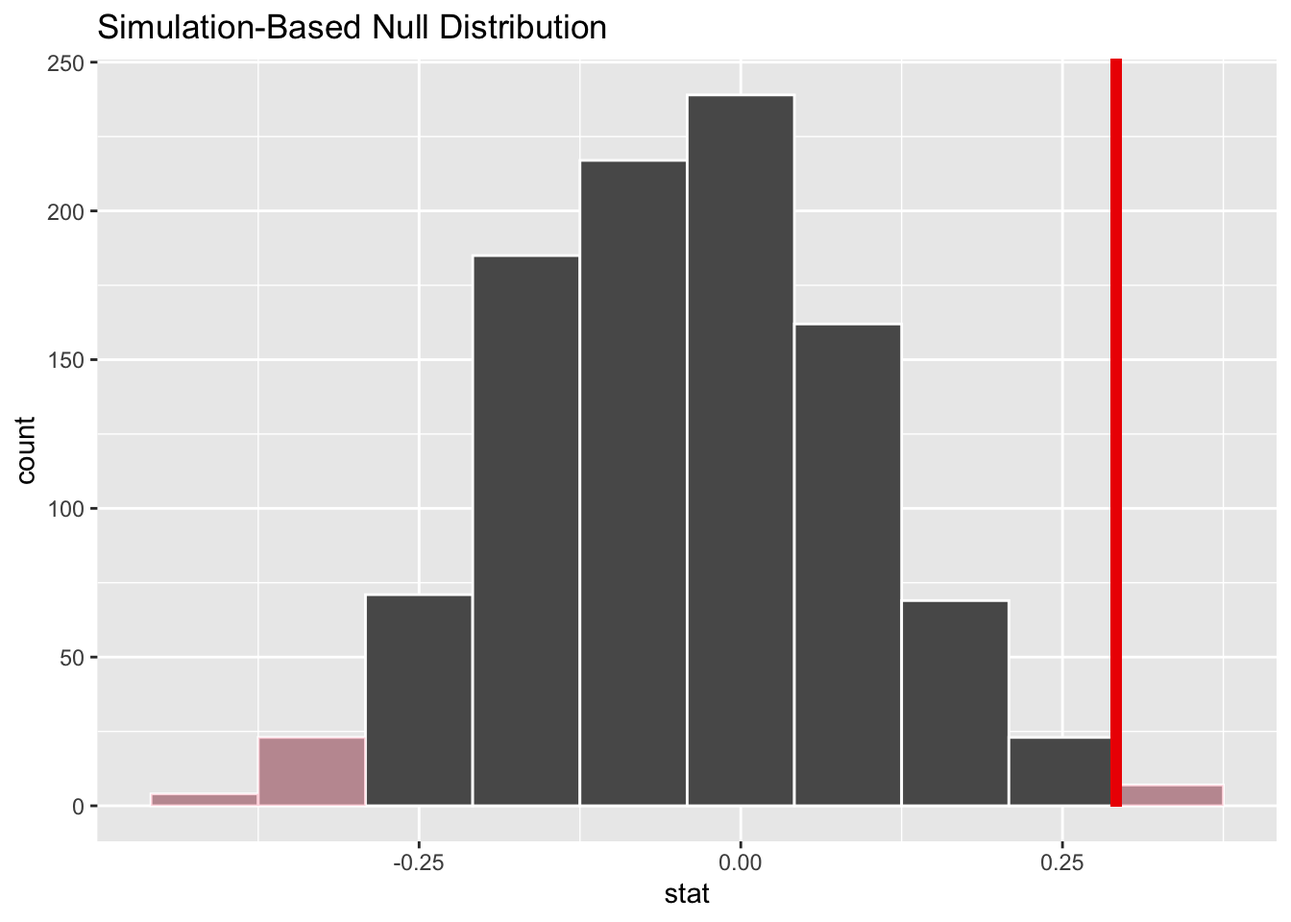
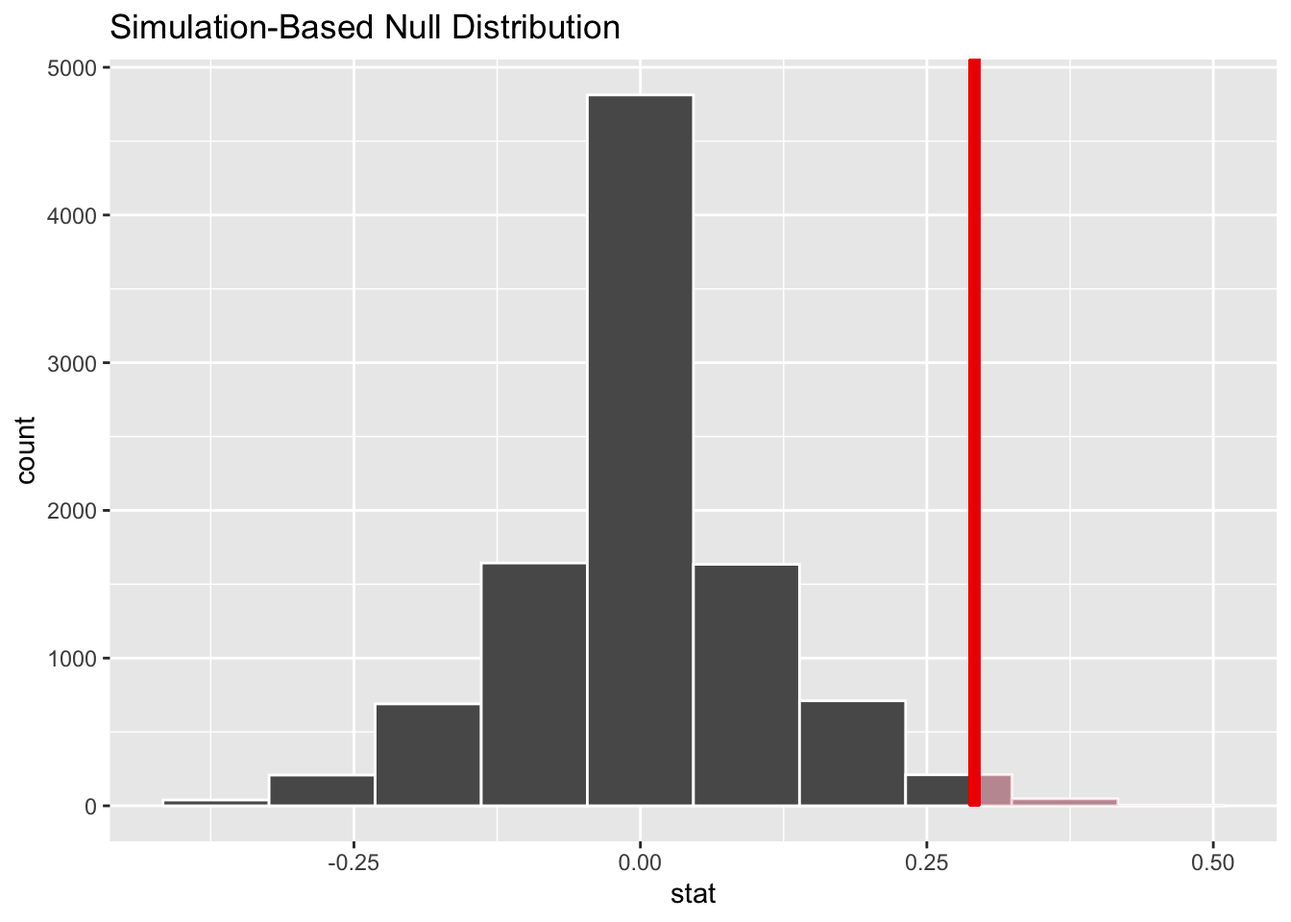
examp to found

diff --git a/Math58/Notes/foundations-for-inference.html b/Math58/Notes/foundations-for-inference.html
@@ -137,14 +137,11 @@ code span.wa { color: #60a0b0; font-weight: bold; font-style: italic; } /* Warni
 <li class="chapter" data-level="1.3" data-path="intro.html"><a href="intro.html#example-friend-or-foe"><i class="fa fa-check"></i><b>1.3</b> Example: Friend or Foe</a></li>
 </ul></li>
 <li class="chapter" data-level="2" data-path="foundations-for-inference.html"><a href="foundations-for-inference.html"><i class="fa fa-check"></i><b>2</b> Foundations for Inference</a><ul>
-<li class="chapter" data-level="2.1" data-path="foundations-for-inference.html"><a href="foundations-for-inference.html#Jan23"><i class="fa fa-check"></i><b>2.1</b> 1/23/20 Agenda</a><ul>
-<li class="chapter" data-level="" data-path="foundations-for-inference.html"><a href="foundations-for-inference.html#vocabulary-1"><i class="fa fa-check"></i>Vocabulary</a></li>
-</ul></li>
-<li class="chapter" data-level="2.2" data-path="foundations-for-inference.html"><a href="foundations-for-inference.html#examples"><i class="fa fa-check"></i><b>2.2</b> Examples</a><ul>
-<li class="chapter" data-level="2.2.1" data-path="foundations-for-inference.html"><a href="foundations-for-inference.html#ex:gend"><i class="fa fa-check"></i><b>2.2.1</b> Examp: Gender Discrimination (<span class="citation">Diez, Barr, and Çetinkaya-Rundel (<span>2014</span>)</span>, pg 61)</a></li>
-</ul></li>
+<li class="chapter" data-level="2.1" data-path="foundations-for-inference.html"><a href="foundations-for-inference.html#Jan23"><i class="fa fa-check"></i><b>2.1</b> 1/23/20 Agenda</a></li>
+<li class="chapter" data-level="2.2" data-path="foundations-for-inference.html"><a href="foundations-for-inference.html#ex:gend"><i class="fa fa-check"></i><b>2.2</b> Example: Gender Discrimination</a></li>
 <li class="chapter" data-level="2.3" data-path="foundations-for-inference.html"><a href="foundations-for-inference.html#structure-of-hypothesis-testing"><i class="fa fa-check"></i><b>2.3</b> Structure of Hypothesis testing</a><ul>
 <li class="chapter" data-level="2.3.1" data-path="foundations-for-inference.html"><a href="foundations-for-inference.html#hypotheses-1"><i class="fa fa-check"></i><b>2.3.1</b> Hypotheses</a></li>
+<li class="chapter" data-level="2.3.2" data-path="foundations-for-inference.html"><a href="foundations-for-inference.html#other-pieces-of-the-process"><i class="fa fa-check"></i><b>2.3.2</b> Other pieces of the process</a></li>
 </ul></li>
 <li class="chapter" data-level="2.4" data-path="foundations-for-inference.html"><a href="foundations-for-inference.html#normality"><i class="fa fa-check"></i><b>2.4</b> Normality</a></li>
 <li class="chapter" data-level="2.5" data-path="foundations-for-inference.html"><a href="foundations-for-inference.html#Jan28"><i class="fa fa-check"></i><b>2.5</b> 1/28/20 Agenda</a><ul>
@@ -185,18 +182,9 @@ code span.wa { color: #60a0b0; font-weight: bold; font-style: italic; } /* Warni
 <li><code>infer</code> again</li>
 <li>Hypothesis testing structure</li>
 </ol>
-<div id="vocabulary-1" class="section level3 unnumbered">
-<h3>Vocabulary</h3>
-<ul>
-<li>A <strong>statistic</strong> is a numerical measurement we get from the sample, a function of the data. [Also sometimes called an <strong>estimate</strong>.]</li>
-<li>A <strong>parameter</strong> is a numerical measurement of the population. We never know the true value of the parameter.</li>
-</ul>
 </div>
-</div>
-<div id="examples" class="section level2">
-<h2><span class="header-section-number">2.2</span> Examples</h2>
-<div id="ex:gend" class="section level3">
-<h3><span class="header-section-number">2.2.1</span> Examp: Gender Discrimination (<span class="citation">Diez, Barr, and Çetinkaya-Rundel (<a href="#ref-isrs">2014</a>)</span>, pg 61)</h3>
+<div id="ex:gend" class="section level2">
+<h2><span class="header-section-number">2.2</span> Example: Gender Discrimination</h2>
 <blockquote>
 <p>We consider a study investigating gender discrimination in the 1970s, which is set in the context of personnel decisions within a bank.<a href="#fn1" class="footnote-ref" id="fnref1"><sup>1</sup></a> The research question we hope to answer is, “Are females discriminated against in promotion decisions made by male managers?”</p>
 </blockquote>
@@ -204,7 +192,7 @@ code span.wa { color: #60a0b0; font-weight: bold; font-style: italic; } /* Warni
 <p>The participants in this study were 48 male bank supervisors attending a management institute at the University of North Carolina in 1972. They were asked to assume the role of the personnel director of a bank and were given a personnel file to judge whether the person should be promoted to a branch manager position. The files given to the participants were identical, except that half of them indicated the candidate was male and the other half indicated the candidate was female. These files were randomly assigned to the subjects.</p>
 </blockquote>
 <blockquote>
-<p>For each supervisor we recorded the gender associated with the assigned file and the promotion decision. Using the results of the study summarized in Table 2.1, we would like to evaluate if females are unfairly discriminated against in promotion decisions. In this study, a smaller proportion of females are promoted than males (0.583 versus 0.875), but it is unclear whether the difference provides convincing evidence that females are unfairly discriminated against.</p>
+<p>For each supervisor we recorded the gender associated with the assigned file and the promotion decision. Using the results of the study summarized in Table 2.1, we would like to evaluate if females are unfairly discriminated against in promotion decisions. In this study, a smaller proportion of females are promoted than males (0.583 versus 0.875), but it is unclear whether the difference provides convincing evidence that females are unfairly discriminated against. (<span class="citation">Diez, Barr, and Çetinkaya-Rundel (<a href="#ref-isrs">2014</a>)</span>, pg 61)</p>
 </blockquote>
 <table>
 <thead>
@@ -257,7 +245,10 @@ code span.wa { color: #60a0b0; font-weight: bold; font-style: italic; } /* Warni
 <li>What are the variables? What type of variables?
 <ul>
 <li><ol style="list-style-type: decimal">
-<li>whether the resume was male or female, (2) decision to promote or not promote</li>
+<li>whether the resume was male or female (categorical)</li>
+</ol></li>
+<li><ol start="2" style="list-style-type: decimal">
+<li>decision to promote or not promote (categorical)</li>
 </ol></li>
 </ul></li>
 <li>What is the statistic?
@@ -307,29 +298,28 @@ code span.wa { color: #60a0b0; font-weight: bold; font-style: italic; } /* Warni
 <a class="sourceLine" id="cb12-2" data-line-number="2">null_discrim &lt;-<span class="st"> </span>discrim <span class="op">%&gt;%</span></a>
 <a class="sourceLine" id="cb12-3" data-line-number="3"><span class="st">  </span><span class="kw">specify</span>(decision <span class="op">~</span><span class="st"> </span>gender, <span class="dt">success =</span> <span class="st">&quot;promote&quot;</span>) <span class="op">%&gt;%</span></a>
 <a class="sourceLine" id="cb12-4" data-line-number="4"><span class="st">  </span><span class="kw">hypothesize</span>(<span class="dt">null =</span> <span class="st">&quot;independence&quot;</span>) <span class="op">%&gt;%</span></a>
-<a class="sourceLine" id="cb12-5" data-line-number="5"><span class="st">  </span><span class="kw">generate</span>(<span class="dt">reps =</span> <span class="dv">1000</span>, <span class="dt">type =</span> <span class="st">&quot;permute&quot;</span>) <span class="op">%&gt;%</span></a>
+<a class="sourceLine" id="cb12-5" data-line-number="5"><span class="st">  </span><span class="kw">generate</span>(<span class="dt">reps =</span> <span class="dv">10000</span>, <span class="dt">type =</span> <span class="st">&quot;permute&quot;</span>) <span class="op">%&gt;%</span></a>
 <a class="sourceLine" id="cb12-6" data-line-number="6"><span class="st">  </span><span class="kw">calculate</span>(<span class="dt">stat =</span> <span class="st">&quot;diff in props&quot;</span>, <span class="dt">order =</span> <span class="kw">c</span>(<span class="st">&quot;male&quot;</span>, <span class="st">&quot;female&quot;</span>))</a>
 <a class="sourceLine" id="cb12-7" data-line-number="7"></a>
 <a class="sourceLine" id="cb12-8" data-line-number="8"><span class="co"># then visualize the null sampling distribution &amp; p-value</span></a>
 <a class="sourceLine" id="cb12-9" data-line-number="9"><span class="kw">visualize</span>(null_discrim, <span class="dt">bins =</span> <span class="dv">10</span>) <span class="op">+</span></a>
-<a class="sourceLine" id="cb12-10" data-line-number="10"><span class="st">  </span><span class="kw">shade_p_value</span>(<span class="dt">obs_stat =</span> diff_obs, <span class="dt">direction =</span> <span class="st">&quot;two_sided&quot;</span>)</a></code></pre></div>
+<a class="sourceLine" id="cb12-10" data-line-number="10"><span class="st">  </span><span class="kw">shade_p_value</span>(<span class="dt">obs_stat =</span> diff_obs, <span class="dt">direction =</span> <span class="st">&quot;right&quot;</span>)</a></code></pre></div>
 <p><img src="02-FoundInf_files/figure-html/unnamed-chunk-1-1.png" width="672" /></p>
 <div class="sourceCode" id="cb13"><pre class="sourceCode r"><code class="sourceCode r"><a class="sourceLine" id="cb13-1" data-line-number="1"><span class="co"># calculate the actual p-value</span></a>
 <a class="sourceLine" id="cb13-2" data-line-number="2">null_discrim <span class="op">%&gt;%</span></a>
-<a class="sourceLine" id="cb13-3" data-line-number="3"><span class="st">  </span><span class="kw">get_p_value</span>(<span class="dt">obs_stat =</span> diff_obs, <span class="dt">direction =</span> <span class="st">&quot;two_sided&quot;</span>)</a></code></pre></div>
+<a class="sourceLine" id="cb13-3" data-line-number="3"><span class="st">  </span><span class="kw">get_p_value</span>(<span class="dt">obs_stat =</span> diff_obs, <span class="dt">direction =</span> <span class="st">&quot;right&quot;</span>)</a></code></pre></div>
 <pre><code>## # A tibble: 1 x 1
 ##   p_value
 ##     &lt;dbl&gt;
-## 1    0.06</code></pre>
+## 1   0.026</code></pre>
 </div>
 <div id="logic-for-what-we-believe-1" class="section level4 unnumbered">
 <h4>Logic for what we believe</h4>
 <ol style="list-style-type: decimal">
 <li><p>We know that the study was an experiment, so there should be no <strong>systematic</strong> differences between the group who received “male” applications and “female” applications.</p></li>
-<li><p>We’ve ruled out random chance as the reason for the huge difference in proportions. (We reject the null hypothesis.)</p></li>
+<li><p>We’ve ruled out random chance as the reason for the huge difference in proportions. (We reject the null hypothesis.) if we lived in the null reality, we’d only see data like these about 2.5% of the time.</p></li>
 <li><p>We conclude that gender and decision are not independent. That is, knowing the gender changes the probability of promotion.</p></li>
 </ol>
-</div>
 </div>
 </div>
 <div id="structure-of-hypothesis-testing" class="section level2">
@@ -342,6 +332,11 @@ code span.wa { color: #60a0b0; font-weight: bold; font-style: italic; } /* Warni
 <li><p>The <strong>Alternative Hypothesis</strong>, <span class="math inline">\(H_A\)</span>, is a specific statement about a population that is in the researcher’s interest to demonstrate. Typically, the alternative hypothesis contains all the values of the population that are not included in the null hypothesis.</p></li>
 <li><p>In a <strong>two-sided</strong> (or two-tailed) test, the alternative hypothesis includes values on both sides of the value specified by the null hypothesis.</p></li>
 <li><p>In a <strong>one-sided</strong> (or one-tailed) test, the alternative hypothesis includes parameter values on only one side of the value specified by the null hypothesis. <span class="math inline">\(H_0\)</span> is rejected only if the data depart from it in the direction stated by <span class="math inline">\(H_A\)</span>.</p></li>
+</ul>
+</div>
+<div id="other-pieces-of-the-process" class="section level3">
+<h3><span class="header-section-number">2.3.2</span> Other pieces of the process</h3>
+<ul>
 <li><p>The <strong>test statistic</strong> is a quantity calculated from the data that is used to evaluate how compatible the data are with the result expected under the null hypothesis.</p></li>
 <li><p>The <strong>null distribution</strong> is the sampling distribution of outcomes for a test statistic under the assumption that the null hypothesis is true.</p></li>
 <li><p>The <strong>p-value</strong> is the probability of obtaining the data (or data showing as great or greater difference from the null hypothesis) if the null hypothesis is true. <em>The p-value is a number calculated from the dataset.</em></p></li>

diff --git a/Math58/Notes/index.html b/Math58/Notes/index.html
@@ -137,14 +137,11 @@ code span.wa { color: #60a0b0; font-weight: bold; font-style: italic; } /* Warni
 <li class="chapter" data-level="1.3" data-path="intro.html"><a href="intro.html#example-friend-or-foe"><i class="fa fa-check"></i><b>1.3</b> Example: Friend or Foe</a></li>
 </ul></li>
 <li class="chapter" data-level="2" data-path="foundations-for-inference.html"><a href="foundations-for-inference.html"><i class="fa fa-check"></i><b>2</b> Foundations for Inference</a><ul>
-<li class="chapter" data-level="2.1" data-path="foundations-for-inference.html"><a href="foundations-for-inference.html#Jan23"><i class="fa fa-check"></i><b>2.1</b> 1/23/20 Agenda</a><ul>
-<li class="chapter" data-level="" data-path="foundations-for-inference.html"><a href="foundations-for-inference.html#vocabulary-1"><i class="fa fa-check"></i>Vocabulary</a></li>
-</ul></li>
-<li class="chapter" data-level="2.2" data-path="foundations-for-inference.html"><a href="foundations-for-inference.html#examples"><i class="fa fa-check"></i><b>2.2</b> Examples</a><ul>
-<li class="chapter" data-level="2.2.1" data-path="foundations-for-inference.html"><a href="foundations-for-inference.html#ex:gend"><i class="fa fa-check"></i><b>2.2.1</b> Examp: Gender Discrimination (<span class="citation">Diez, Barr, and Çetinkaya-Rundel (<span>2014</span>)</span>, pg 61)</a></li>
-</ul></li>
+<li class="chapter" data-level="2.1" data-path="foundations-for-inference.html"><a href="foundations-for-inference.html#Jan23"><i class="fa fa-check"></i><b>2.1</b> 1/23/20 Agenda</a></li>
+<li class="chapter" data-level="2.2" data-path="foundations-for-inference.html"><a href="foundations-for-inference.html#ex:gend"><i class="fa fa-check"></i><b>2.2</b> Example: Gender Discrimination</a></li>
 <li class="chapter" data-level="2.3" data-path="foundations-for-inference.html"><a href="foundations-for-inference.html#structure-of-hypothesis-testing"><i class="fa fa-check"></i><b>2.3</b> Structure of Hypothesis testing</a><ul>
 <li class="chapter" data-level="2.3.1" data-path="foundations-for-inference.html"><a href="foundations-for-inference.html#hypotheses-1"><i class="fa fa-check"></i><b>2.3.1</b> Hypotheses</a></li>
+<li class="chapter" data-level="2.3.2" data-path="foundations-for-inference.html"><a href="foundations-for-inference.html#other-pieces-of-the-process"><i class="fa fa-check"></i><b>2.3.2</b> Other pieces of the process</a></li>
 </ul></li>
 <li class="chapter" data-level="2.4" data-path="foundations-for-inference.html"><a href="foundations-for-inference.html#normality"><i class="fa fa-check"></i><b>2.4</b> Normality</a></li>
 <li class="chapter" data-level="2.5" data-path="foundations-for-inference.html"><a href="foundations-for-inference.html#Jan28"><i class="fa fa-check"></i><b>2.5</b> 1/28/20 Agenda</a><ul>
@@ -211,7 +208,7 @@ code span.wa { color: #60a0b0; font-weight: bold; font-style: italic; } /* Warni
 <td align="left">1/23/20</td>
 <td align="left">Foundations for Inference</td>
 <td align="left">ISRS 2.1-2.3</td>
-<td align="left"><a href="foundations-for-inference.html#Jan23">2.1</a> [Jan23], <a href="foundations-for-inference.html#ex:gend">2.2.1</a> [Examp: gender]</td>
+<td align="left"><a href="foundations-for-inference.html#Jan23">2.1</a> [Jan23], <a href="foundations-for-inference.html#ex:gend">2.2</a> [Examp: gender]</td>
 </tr>
 <tr class="odd">
 <td align="left">1/28/20</td>

diff --git a/Math58/Notes/intro.html b/Math58/Notes/intro.html
@@ -137,14 +137,11 @@ code span.wa { color: #60a0b0; font-weight: bold; font-style: italic; } /* Warni
 <li class="chapter" data-level="1.3" data-path="intro.html"><a href="intro.html#example-friend-or-foe"><i class="fa fa-check"></i><b>1.3</b> Example: Friend or Foe</a></li>
 </ul></li>
 <li class="chapter" data-level="2" data-path="foundations-for-inference.html"><a href="foundations-for-inference.html"><i class="fa fa-check"></i><b>2</b> Foundations for Inference</a><ul>
-<li class="chapter" data-level="2.1" data-path="foundations-for-inference.html"><a href="foundations-for-inference.html#Jan23"><i class="fa fa-check"></i><b>2.1</b> 1/23/20 Agenda</a><ul>
-<li class="chapter" data-level="" data-path="foundations-for-inference.html"><a href="foundations-for-inference.html#vocabulary-1"><i class="fa fa-check"></i>Vocabulary</a></li>
-</ul></li>
-<li class="chapter" data-level="2.2" data-path="foundations-for-inference.html"><a href="foundations-for-inference.html#examples"><i class="fa fa-check"></i><b>2.2</b> Examples</a><ul>
-<li class="chapter" data-level="2.2.1" data-path="foundations-for-inference.html"><a href="foundations-for-inference.html#ex:gend"><i class="fa fa-check"></i><b>2.2.1</b> Examp: Gender Discrimination (<span class="citation">Diez, Barr, and Çetinkaya-Rundel (<span>2014</span>)</span>, pg 61)</a></li>
-</ul></li>
+<li class="chapter" data-level="2.1" data-path="foundations-for-inference.html"><a href="foundations-for-inference.html#Jan23"><i class="fa fa-check"></i><b>2.1</b> 1/23/20 Agenda</a></li>
+<li class="chapter" data-level="2.2" data-path="foundations-for-inference.html"><a href="foundations-for-inference.html#ex:gend"><i class="fa fa-check"></i><b>2.2</b> Example: Gender Discrimination</a></li>
 <li class="chapter" data-level="2.3" data-path="foundations-for-inference.html"><a href="foundations-for-inference.html#structure-of-hypothesis-testing"><i class="fa fa-check"></i><b>2.3</b> Structure of Hypothesis testing</a><ul>
 <li class="chapter" data-level="2.3.1" data-path="foundations-for-inference.html"><a href="foundations-for-inference.html#hypotheses-1"><i class="fa fa-check"></i><b>2.3.1</b> Hypotheses</a></li>
+<li class="chapter" data-level="2.3.2" data-path="foundations-for-inference.html"><a href="foundations-for-inference.html#other-pieces-of-the-process"><i class="fa fa-check"></i><b>2.3.2</b> Other pieces of the process</a></li>
 </ul></li>
 <li class="chapter" data-level="2.4" data-path="foundations-for-inference.html"><a href="foundations-for-inference.html#normality"><i class="fa fa-check"></i><b>2.4</b> Normality</a></li>
 <li class="chapter" data-level="2.5" data-path="foundations-for-inference.html"><a href="foundations-for-inference.html#Jan28"><i class="fa fa-check"></i><b>2.5</b> 1/28/20 Agenda</a><ul>

diff --git a/Math58/Notes/references.html b/Math58/Notes/references.html
@@ -137,14 +137,11 @@ code span.wa { color: #60a0b0; font-weight: bold; font-style: italic; } /* Warni
 <li class="chapter" data-level="1.3" data-path="intro.html"><a href="intro.html#example-friend-or-foe"><i class="fa fa-check"></i><b>1.3</b> Example: Friend or Foe</a></li>
 </ul></li>
 <li class="chapter" data-level="2" data-path="foundations-for-inference.html"><a href="foundations-for-inference.html"><i class="fa fa-check"></i><b>2</b> Foundations for Inference</a><ul>
-<li class="chapter" data-level="2.1" data-path="foundations-for-inference.html"><a href="foundations-for-inference.html#Jan23"><i class="fa fa-check"></i><b>2.1</b> 1/23/20 Agenda</a><ul>
-<li class="chapter" data-level="" data-path="foundations-for-inference.html"><a href="foundations-for-inference.html#vocabulary-1"><i class="fa fa-check"></i>Vocabulary</a></li>
-</ul></li>
-<li class="chapter" data-level="2.2" data-path="foundations-for-inference.html"><a href="foundations-for-inference.html#examples"><i class="fa fa-check"></i><b>2.2</b> Examples</a><ul>
-<li class="chapter" data-level="2.2.1" data-path="foundations-for-inference.html"><a href="foundations-for-inference.html#ex:gend"><i class="fa fa-check"></i><b>2.2.1</b> Examp: Gender Discrimination (<span class="citation">Diez, Barr, and Çetinkaya-Rundel (<span>2014</span>)</span>, pg 61)</a></li>
-</ul></li>
+<li class="chapter" data-level="2.1" data-path="foundations-for-inference.html"><a href="foundations-for-inference.html#Jan23"><i class="fa fa-check"></i><b>2.1</b> 1/23/20 Agenda</a></li>
+<li class="chapter" data-level="2.2" data-path="foundations-for-inference.html"><a href="foundations-for-inference.html#ex:gend"><i class="fa fa-check"></i><b>2.2</b> Example: Gender Discrimination</a></li>
 <li class="chapter" data-level="2.3" data-path="foundations-for-inference.html"><a href="foundations-for-inference.html#structure-of-hypothesis-testing"><i class="fa fa-check"></i><b>2.3</b> Structure of Hypothesis testing</a><ul>
 <li class="chapter" data-level="2.3.1" data-path="foundations-for-inference.html"><a href="foundations-for-inference.html#hypotheses-1"><i class="fa fa-check"></i><b>2.3.1</b> Hypotheses</a></li>
+<li class="chapter" data-level="2.3.2" data-path="foundations-for-inference.html"><a href="foundations-for-inference.html#other-pieces-of-the-process"><i class="fa fa-check"></i><b>2.3.2</b> Other pieces of the process</a></li>
 </ul></li>
 <li class="chapter" data-level="2.4" data-path="foundations-for-inference.html"><a href="foundations-for-inference.html#normality"><i class="fa fa-check"></i><b>2.4</b> Normality</a></li>
 <li class="chapter" data-level="2.5" data-path="foundations-for-inference.html"><a href="foundations-for-inference.html#Jan28"><i class="fa fa-check"></i><b>2.5</b> 1/28/20 Agenda</a><ul>

diff --git a/Math58/Notes/02-FoundInf.md b/Math58/Notes/02-FoundInf.md
@@ -7,20 +7,14 @@
 
 
 
-### Vocabulary {-}
-* A  **statistic** is a numerical measurement we get from the sample, a function of the data. [Also sometimes called an **estimate**.]
-* A  **parameter** is a numerical measurement of the population.  We never know the true value of the parameter.
 
-
-## Examples
-
-### Examp: Gender Discrimination (@isrs, pg 61) {#ex:gend}
+## Example: Gender Discrimination {#ex:gend}
 
 > We consider a study investigating gender discrimination in the 1970s, which is set in the context of personnel decisions within a bank.^[Rosen B and Jerdee T. 1974. Influence of sex role stereotypes on personnel decisions. Journal of Applied Psychology 59(1):9-14.] The research question we hope to answer is, "Are females discriminated against in promotion decisions made by male managers?"
 
 > The participants in this study were 48 male bank supervisors attending a management institute at the University of North Carolina in 1972. They were asked to assume the role of the personnel director of a bank and were given a personnel file to judge whether the person should be promoted to a branch manager position. The files given to the participants were identical, except that half of them indicated the candidate was male and the other half indicated the candidate was female. These files were randomly assigned to the subjects.
 
-> For each supervisor we recorded the gender associated with the assigned file and the promotion decision. Using the results of the study summarized in Table 2.1, we would like to evaluate if females are unfairly discriminated against in promotion decisions. In this study, a smaller proportion of females are promoted than males (0.583 versus 0.875), but it is unclear whether the difference provides convincing evidence that females are unfairly discriminated against.
+> For each supervisor we recorded the gender associated with the assigned file and the promotion decision. Using the results of the study summarized in Table 2.1, we would like to evaluate if females are unfairly discriminated against in promotion decisions. In this study, a smaller proportion of females are promoted than males (0.583 versus 0.875), but it is unclear whether the difference provides convincing evidence that females are unfairly discriminated against.   (@isrs, pg 61) 
 
 |   |        |          | decision     |       |
 |---|--------|----------|--------------|-------|
@@ -35,7 +29,8 @@
 * What are the observational units?
     - supervisor
 * What are the variables?  What type of variables?
-    - (1) whether the resume was male or female, (2) decision to promote or not promote
+    - (1) whether the resume was male or female (categorical)
+    - (2) decision to promote or not promote (categorical)
 * What is the statistic?
     - $\hat{p}_m - \hat{p}_f$ = 21/24 - 14/24 = 0.292  (the difference between the proportion of men who were promoted and the proportion of women who were promoted)
 * What is the parameter?
@@ -93,12 +88,12 @@ discrim %>% head()
 null_discrim <- discrim %>%
   specify(decision ~ gender, success = "promote") %>%
   hypothesize(null = "independence") %>%
-  generate(reps = 1000, type = "permute") %>%
+  generate(reps = 10000, type = "permute") %>%
   calculate(stat = "diff in props", order = c("male", "female"))
 
 # then visualize the null sampling distribution & p-value
 visualize(null_discrim, bins = 10) +
-  shade_p_value(obs_stat = diff_obs, direction = "two_sided")
+  shade_p_value(obs_stat = diff_obs, direction = "right")
 ```
 
 <img src="02-FoundInf_files/figure-html/unnamed-chunk-1-1.png" width="672" />
@@ -106,21 +101,21 @@ visualize(null_discrim, bins = 10) +
 ```r
 # calculate the actual p-value
 null_discrim %>%
-  get_p_value(obs_stat = diff_obs, direction = "two_sided")
+  get_p_value(obs_stat = diff_obs, direction = "right")
 ```
 
 ```
 ## # A tibble: 1 x 1
 ##   p_value
 ##     <dbl>
-## 1    0.06
+## 1   0.026
 ```
 
 #### Logic for what we believe {-}
 
 1. We know that the study was an experiment, so there should be no **systematic** differences between the group who received "male" applications and "female" applications.
 
-2. We've ruled out random chance as the reason for the huge difference in proportions.  (We reject the null hypothesis.)
+2. We've ruled out random chance as the reason for the huge difference in proportions.  (We reject the null hypothesis.)  if we lived in the null reality, we'd only see data like these about 2.5% of the time.
 
 3. We conclude that gender and decision are not independent.  That is, knowing the gender changes the probability of promotion.
 
@@ -139,6 +134,9 @@ null_discrim %>%
 * In a **two-sided** (or two-tailed) test, the alternative hypothesis includes values on both sides of the value specified by the null hypothesis.
 
 * In a **one-sided** (or one-tailed) test, the alternative hypothesis includes parameter values on only one side of the value specified by the null hypothesis. $H_0$ is rejected only if the data depart from it in the direction stated by $H_A$.
+
+
+### Other pieces of the process
 
 * The **test statistic** is a quantity calculated from the data that is used to evaluate how compatible the data are with the result expected under the null hypothesis.
 
